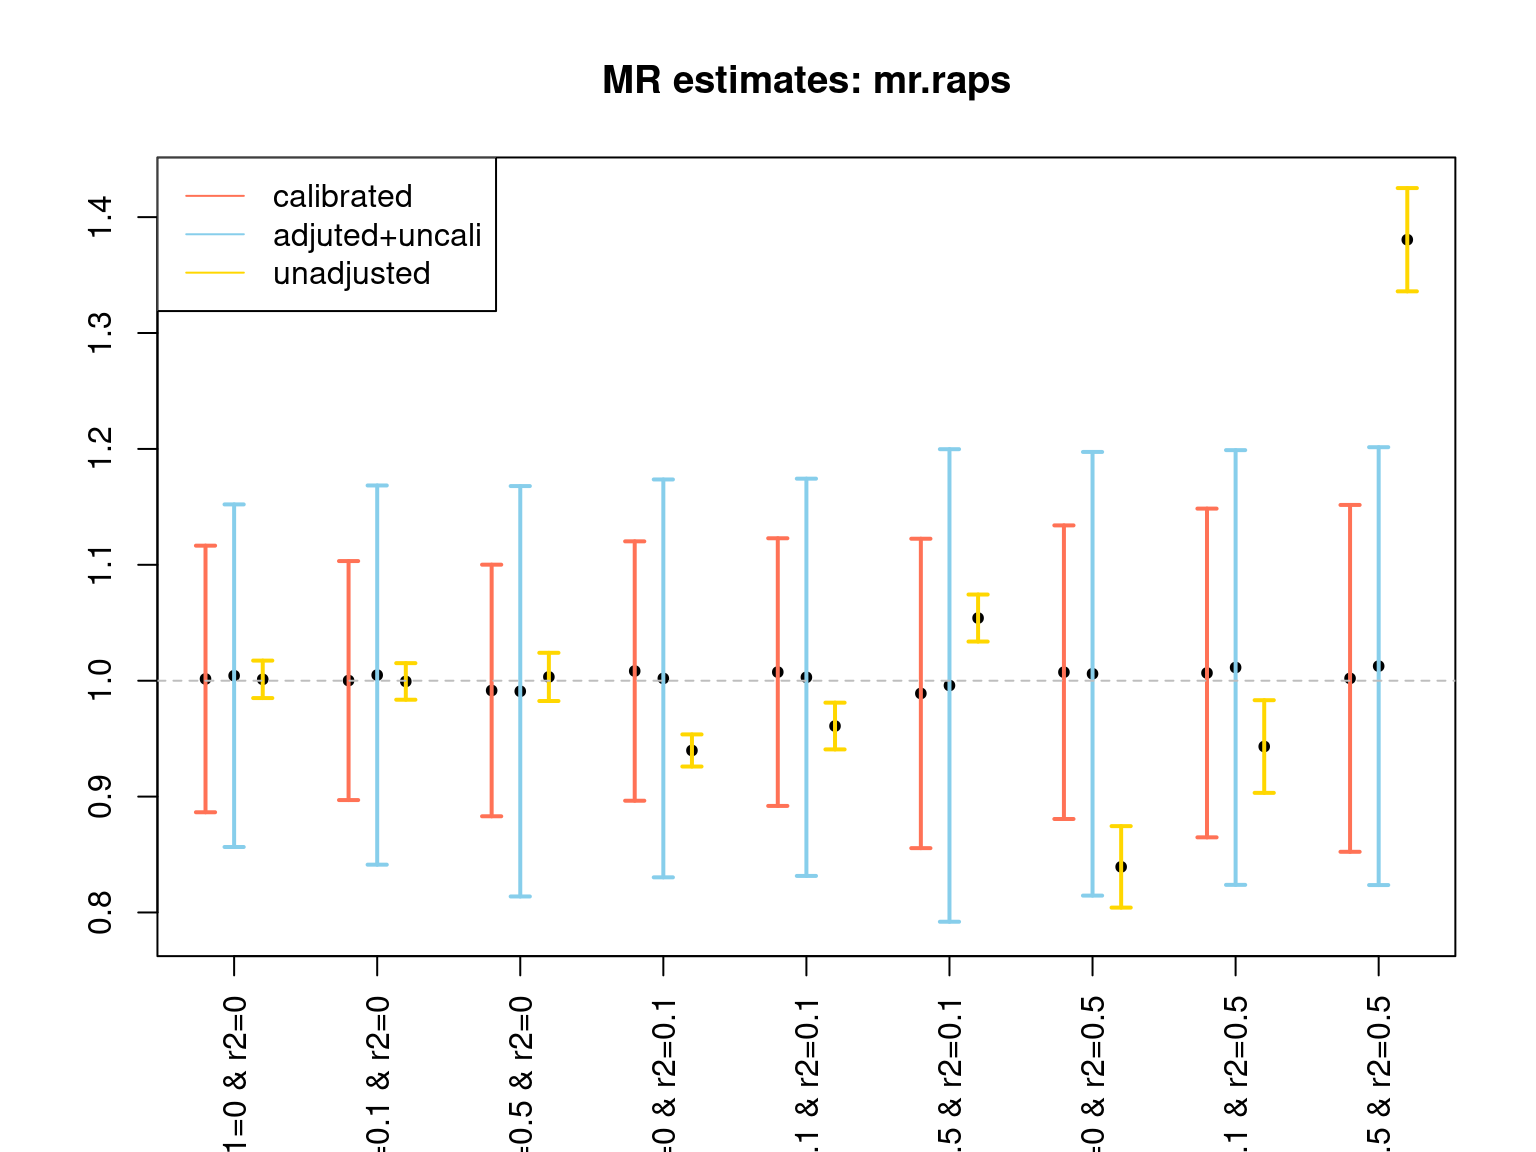
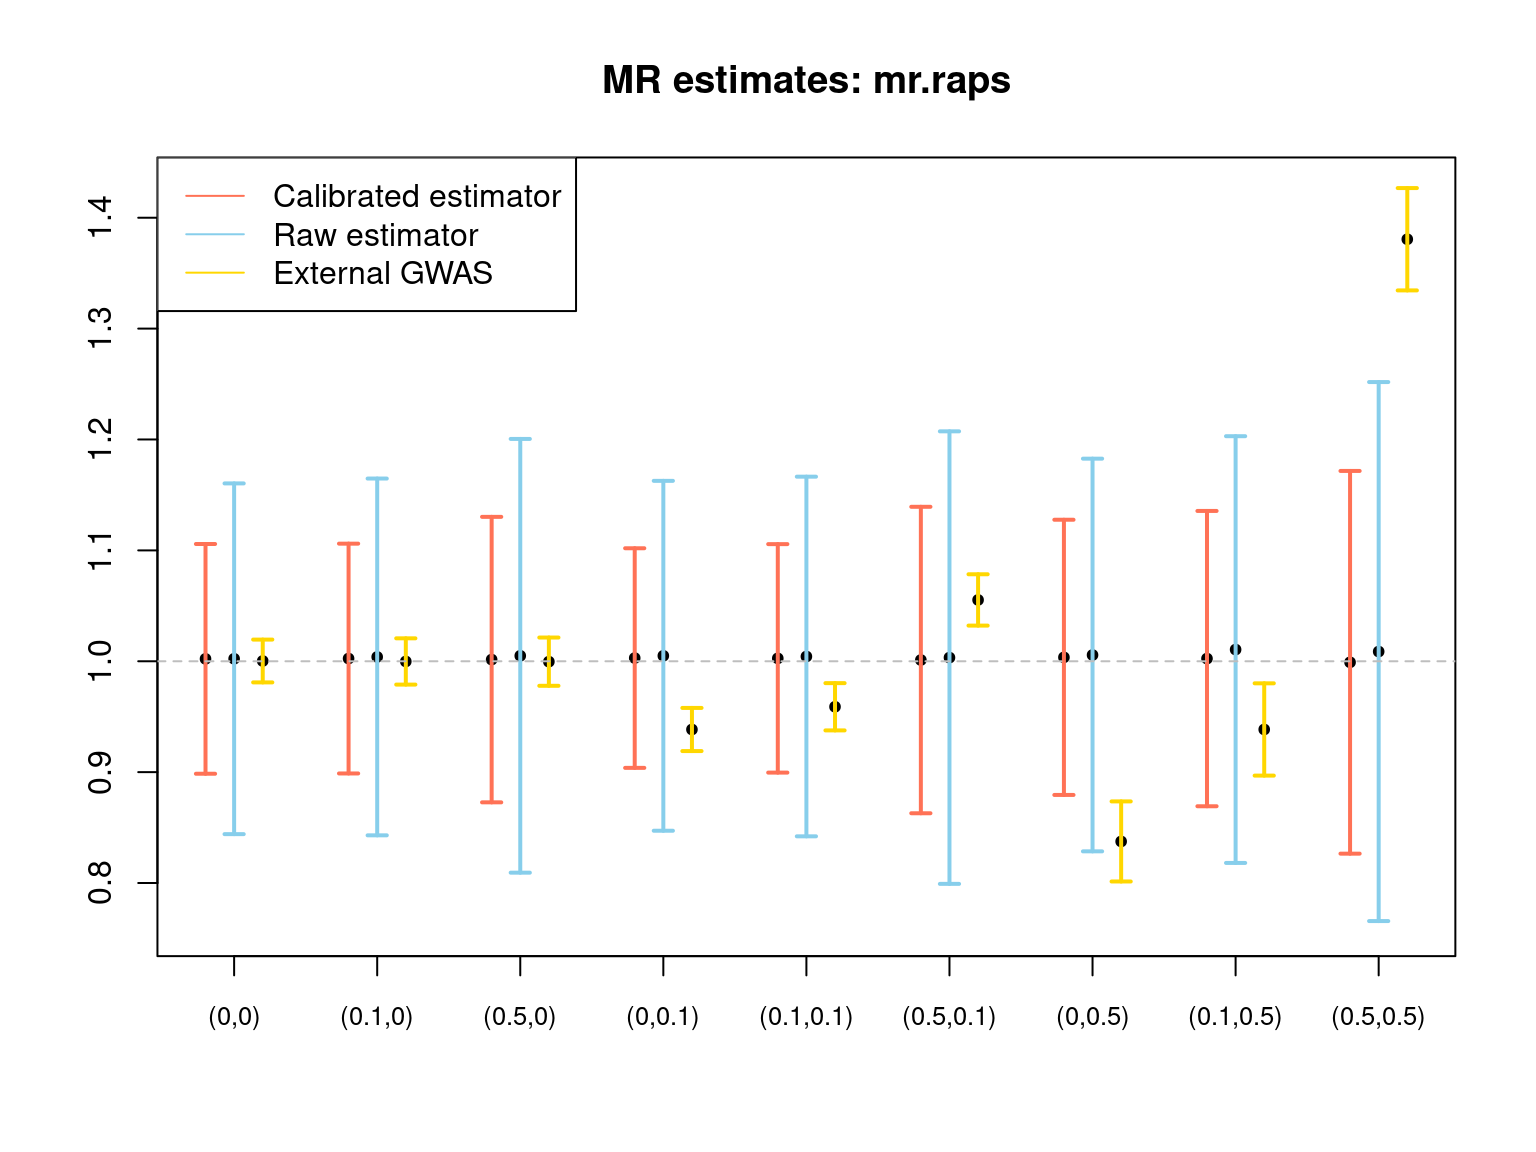
Build site.

diff --git a/docs/mr_trio.html b/docs/mr_trio.html
@@ -391,7 +391,7 @@ class="glyphicon glyphicon-ok text-success" aria-hidden="true"></span>
 <div class="tab-content">
 <div id="summary" class="tab-pane fade in active">
 <p>
-<strong>Last updated:</strong> 2024-05-26
+<strong>Last updated:</strong> 2024-06-28
 </p>
 <p>
 <strong>Checks:</strong> <span
@@ -522,15 +522,15 @@ project makes it easier to run your code on other machines.</p>
 <div class="panel panel-default">
 <div class="panel-heading">
 <p class="panel-title">
-<a data-toggle="collapse" data-parent="#workflowr-checks" href="#strongRepositoryversionstrongahrefhttpsgithubcomyunqiyang0215simulationcalibratedmrtree9d5c8697a5e2d38261386e606c4b9618a107a615targetblank9d5c869a">
+<a data-toggle="collapse" data-parent="#workflowr-checks" href="#strongRepositoryversionstrongahrefhttpsgithubcomyunqiyang0215simulationcalibratedmrtree64c927f4d41fa1705ea637184ddb621f2c7d3d3ftargetblank64c927fa">
 <span class="glyphicon glyphicon-ok text-success"
 aria-hidden="true"></span> <strong>Repository version:</strong>
-<a href="https://github.com/yunqiyang0215/simulation-calibrated-mr/tree/9d5c8697a5e2d38261386e606c4b9618a107a615" target="_blank">9d5c869</a>
+<a href="https://github.com/yunqiyang0215/simulation-calibrated-mr/tree/64c927f4d41fa1705ea637184ddb621f2c7d3d3f" target="_blank">64c927f</a>
 </a>
 </p>
 </div>
 <div
[2 lines of base64/hex data omitted]
 class="panel-collapse collapse">
 <div class="panel-body">
 <p>
@@ -540,7 +540,7 @@ reproducibility.
 </p>
 <p>
 The results in this page were generated with repository version
-<a href="https://github.com/yunqiyang0215/simulation-calibrated-mr/tree/9d5c8697a5e2d38261386e606c4b9618a107a615" target="_blank">9d5c869</a>.
+<a href="https://github.com/yunqiyang0215/simulation-calibrated-mr/tree/64c927f4d41fa1705ea637184ddb621f2c7d3d3f" target="_blank">64c927f</a>.
 See the <em>Past versions</em> tab to see a history of the changes made
 to the R Markdown and HTML files.
 </p>
@@ -611,6 +611,40 @@ Message
 </tr>
 </thead>
 <tbody>
+<tr>
+<td>
+Rmd
+</td>
+<td>
+<a href="https://github.com/yunqiyang0215/simulation-calibrated-mr/blob/64c927f4d41fa1705ea637184ddb621f2c7d3d3f/analysis/mr_trio.Rmd" target="_blank">64c927f</a>
+</td>
+<td>
+yunqi yang
+</td>
+<td>
+2024-06-28
+</td>
+<td>
+wflow_publish("analysis/mr_trio.Rmd")
+</td>
+</tr>
+<tr>
+<td>
+html
+</td>
+<td>
+<a href="https://rawcdn.githack.com/yunqiyang0215/simulation-calibrated-mr/e530b536b50ff4adaf378e0b1b820854c69fa13f/docs/mr_trio.html" target="_blank">e530b53</a>
+</td>
+<td>
+yunqi yang
+</td>
+<td>
+2024-05-26
+</td>
+<td>
+Build site.
+</td>
+</tr>
 <tr>
 <td>
 Rmd
@@ -1129,7 +1163,7 @@ arrows(x0 = x_pos, y0 = means - 1.96*ses, x1 = x_pos, y1 = means + 1.96*ses,
 abline(h = 1, lty =2, col = &quot;grey&quot;)
 
 axis(1, at = c(1:ncomb), labels = labels, cex.axis = 0.8)
-legend(&quot;topleft&quot;, legend = c(&quot;calibrated&quot;, &quot;adjusted, uncalibrated&quot;, &quot;unadjusted&quot;), lty = 1, col = c(&quot;coral1&quot;, &quot;skyblue&quot;, &quot;gold&quot;))</code></pre>
+legend(&quot;topleft&quot;, legend = c(&quot;Calibrated estimator&quot;, &quot;Raw estimator&quot;, &quot;External GWAS&quot;), lty = 1, col = c(&quot;coral1&quot;, &quot;skyblue&quot;, &quot;gold&quot;))</code></pre>
 <p><img src="figure/mr_trio.Rmd/unnamed-chunk-4-1.png" width="768" style="display: block; margin: auto;" /></p>
 <p>
 <button type="button" class="btn btn-default btn-xs btn-workflowr btn-workflowr-fig" data-toggle="collapse" data-target="#fig-unnamed-chunk-4-1">
@@ -1153,6 +1187,17 @@ Date
 </tr>
 </thead>
 <tbody>
+<tr>
+<td>
+<a href="https://github.com/yunqiyang0215/simulation-calibrated-mr/blob/e530b536b50ff4adaf378e0b1b820854c69fa13f/docs/figure/mr_trio.Rmd/unnamed-chunk-4-1.png" target="_blank">e530b53</a>
+</td>
+<td>
+yunqi yang
+</td>
+<td>
+2024-05-26
+</td>
+</tr>
 <tr>
 <td>
 <a href="https://github.com/yunqiyang0215/simulation-calibrated-mr/blob/f397f77c44b5b02c85a747a890dd706a587d25d2/docs/figure/mr_trio.Rmd/unnamed-chunk-4-1.png" target="_blank">f397f77</a>
@@ -1281,7 +1326,7 @@ yunqi yang
 </div>
 <div id="mr.raps" class="section level3">
 <h3>2. mr.raps</h3>
-<pre class="r"><code>n_rep = 50
+<pre class="r"><code>n_rep = 500
 combinations &lt;- expand.grid(r1 = r1, r2 = r2)
 output = c()
 for (i in 1:nrow(combinations)){
@@ -1291,10 +1336,11 @@ for (i in 1:nrow(combinations)){
               res$mr.point_est[res$fit.method == &quot;unadj_ext&quot;][1:n_rep])
   output = cbind(output, val)
 }</code></pre>
-<pre class="r"><code>means &lt;- colMeans(output)
+<pre class="r"><code>#pdf(&quot;fig1_convergence.pdf&quot;, width = 8, height = 8)
+means &lt;- colMeans(output)
 ses &lt;- apply(output, 2, sd)
 ncomb = nrow(combinations)
-labels = apply(combinations, 1, function(x) paste0(&quot;r1=&quot;,x[1], &quot; &amp; r2=&quot;, x[2]))
+labels = apply(combinations, 1, function(x) paste0(&quot;(&quot;,x[1], &quot;,&quot;, x[2], &quot;)&quot;))
 x_pos &lt;- rep(1:ncomb, each = 3)
 x_pos &lt;- x_pos + rep(c(-0.2, 0, 0.2), ncomb)
   
@@ -1305,8 +1351,8 @@ arrows(x0 = x_pos, y0 = means - 1.96*ses, x1 = x_pos, y1 = means + 1.96*ses,
        code = 3, angle = 90, length = 0.05, lwd = 2, col = rep(c(&quot;coral1&quot;, &quot;skyblue&quot;, &quot;gold&quot;), ncomb))
 abline(h = 1, lty =2, col = &quot;grey&quot;)
 
-axis(1, at = c(1:ncomb), labels = labels, las = 2)
-legend(&quot;topleft&quot;, legend = c(&quot;calibrated&quot;, &quot;adjuted+uncali&quot;, &quot;unadjusted&quot;), lty = 1, col = c(&quot;coral1&quot;, &quot;skyblue&quot;, &quot;gold&quot;))</code></pre>
+axis(1, at = c(1:ncomb), labels = labels, cex.axis = 0.8)
+legend(&quot;topleft&quot;, legend = c(&quot;Calibrated estimator&quot;, &quot;Raw estimator&quot;, &quot;External GWAS&quot;), lty = 1, col = c(&quot;coral1&quot;, &quot;skyblue&quot;, &quot;gold&quot;))</code></pre>
 <p><img src="figure/mr_trio.Rmd/unnamed-chunk-6-1.png" width="768" style="display: block; margin: auto;" /></p>
 <p>
 <button type="button" class="btn btn-default btn-xs btn-workflowr btn-workflowr-fig" data-toggle="collapse" data-target="#fig-unnamed-chunk-6-1">
@@ -1940,18 +1986,17 @@ other attached packages:
 [1] workflowr_1.7.0
 
 loaded via a namespace (and not attached):
- [1] Rcpp_1.0.8.3     highr_0.9        bslib_0.3.1      compiler_4.2.0  
- [5] pillar_1.7.0     later_1.3.0      git2r_0.30.1     jquerylib_0.1.4 
+ [1] Rcpp_1.0.12      highr_0.9        compiler_4.2.0   pillar_1.9.0    
+ [5] bslib_0.3.1      later_1.3.0      git2r_0.30.1     jquerylib_0.1.4 
  [9] tools_4.2.0      getPass_0.2-2    digest_0.6.29    jsonlite_1.8.0  
-[13] evaluate_0.15    tibble_3.1.7     lifecycle_1.0.1  pkgconfig_2.0.3 
-[17] rlang_1.0.2      cli_3.3.0        rstudioapi_0.13  yaml_2.3.5      
-[21] xfun_0.30        fastmap_1.1.0    httr_1.4.3       stringr_1.4.0   
-[25] knitr_1.39       sass_0.4.1       fs_1.5.2         vctrs_0.4.1     
+[13] evaluate_0.15    lifecycle_1.0.4  tibble_3.2.1     pkgconfig_2.0.3 
+[17] rlang_1.1.3      cli_3.6.2        rstudioapi_0.13  yaml_2.3.5      
+[21] xfun_0.30        fastmap_1.1.0    httr_1.4.3       stringr_1.5.1   
+[25] knitr_1.39       fs_1.5.2         vctrs_0.6.5      sass_0.4.1      
 [29] rprojroot_2.0.3  glue_1.6.2       R6_2.5.1         processx_3.8.0  
 [33] fansi_1.0.3      rmarkdown_2.14   callr_3.7.3      magrittr_2.0.3  
 [37] whisker_0.4      ps_1.7.0         promises_1.2.0.1 htmltools_0.5.2 
-[41] ellipsis_0.3.2   httpuv_1.6.5     utf8_1.2.2       stringi_1.7.6   
-[45] crayon_1.5.1    </code></pre>
+[41] httpuv_1.6.5     utf8_1.2.2       stringi_1.7.6   </code></pre>
 </div>
 </div>
 </div>
